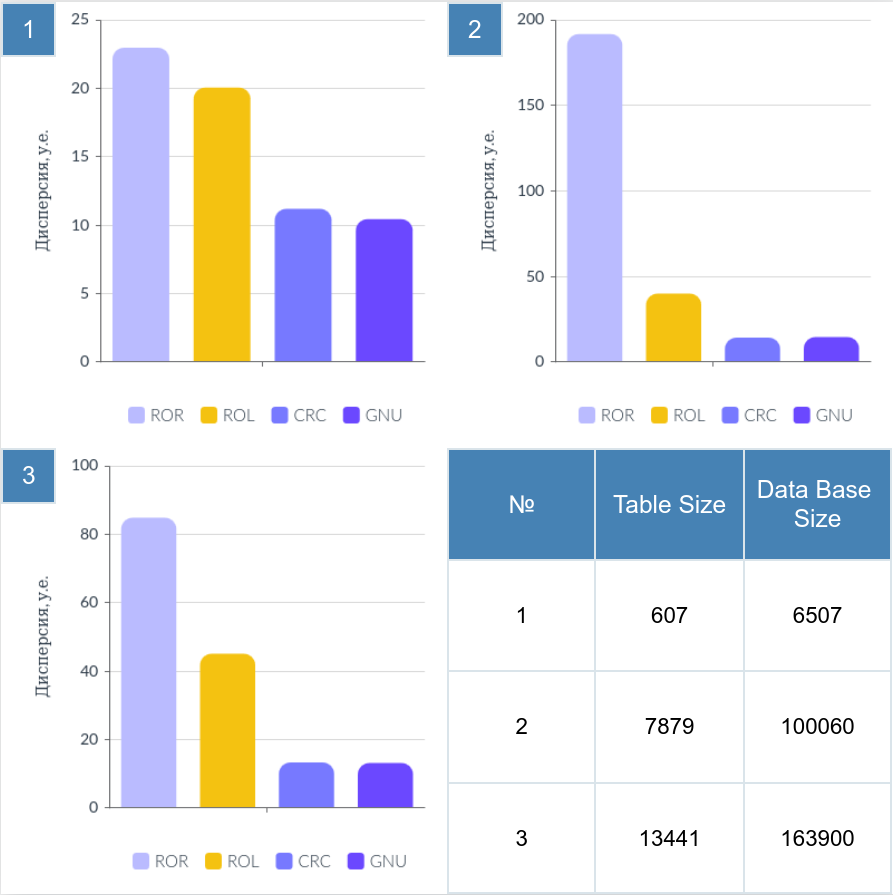
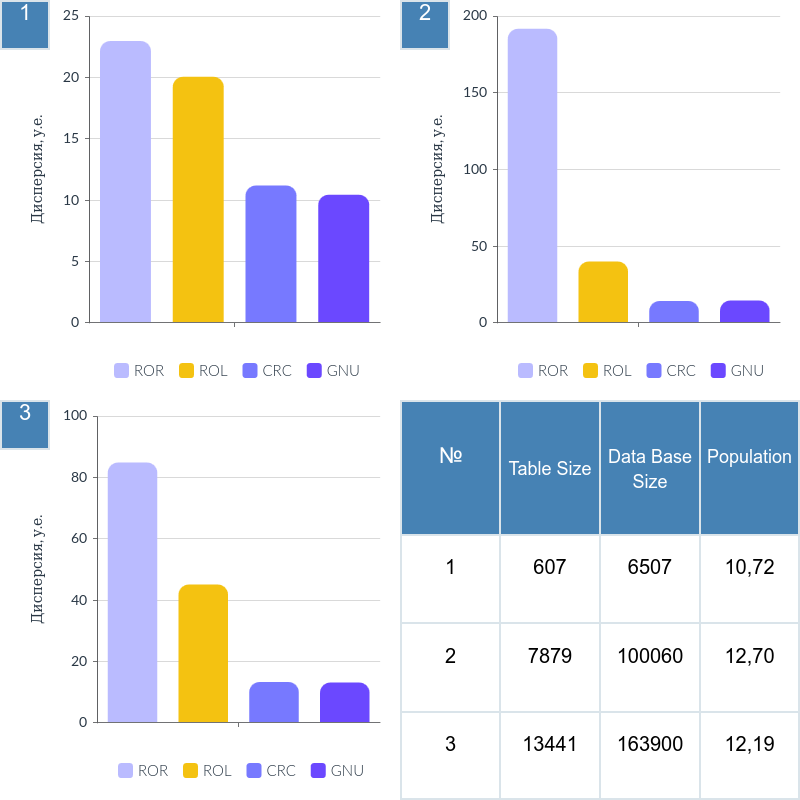
Update README.md

diff --git a/README.md b/README.md
@@ -2,25 +2,25 @@
 ### Направление: "Введение в эмуляцию вычислительных систем, компиляторные технологии и промышленное программирование"
 **Выполнил Буторин Даниил**
 ## Цель
-Изучить различные реализации хеш-функций, изучить их дисперсию; исследовать реализацию инфроструктуры хеш-таблтцы на предмет возможных оптимизаций, внедрение найденных решений, вычисление коэффициента полезного прироста производительности.
+Изучить различные реализации хеш-функций, изучить их дисперсию; исследовать реализацию инфроструктуры хеш-таблтцы на предмет возможных оптимизаций, внедрение найденных решений, вычисление коэффициента полезного прироста производительности ассемблерной оптимизации.
 ## В работе используются
-Язык программирования C\C++; набор компиляторов GCC; инструмент callgring утилиты valgring; инструмент визуализации KCachegring.
+Язык программирования C\C++; набор компиляторов GCC; инструмент callgrind утилиты valgrind; инструмент визуализации KCachegring.
 ## Экспериментальная установка
 Ноутбук фирмы "Honor" на процессоре "AMD Ryzen 5 5500U with Radeon Graphics" с OS "GNU/Linux 22.04.1-Ubuntu x86_64".
 ## Теоретическая справка:
-Хеш-функция — функция, осуществляющая преобразование массива входных данных произвольной длины в выходную битовую строку определенной длины. Возвращаемые хеш-функцией значения менее разнообразны, чем входные значения. Случай, при котором хеш-функция преобразует более чем одно значение входных данных в одинаковые ключи, называется "коллизией". Вероятность возникновения коллизий используется для оценки качества хеш-функций.
+Хеш-функция — функция, осуществляющая преобразование массива входных данных произвольной длины в выходную битовую строку определенной длины(также называемую ключем). Возвращаемые хеш-функцией значения менее разнообразны, чем входные значения. Случай, при котором хеш-функция преобразует более чем одно значение входных данных в одинаковые ключи, называется "коллизией". Вероятность возникновения коллизий используется для оценки качества хеш-функций.
 
 Ассоциативный массив — абстрактный тип данных, позволяющий хранить пары вида (ключ, значение). Реализация ассоциативного массива может быть представлена хеш-таблицей с разрешением коллизий путем цепочек(каждая ячейка - односвязанный список).
 
-Заскленность хеш-таблицы - среднее количество элементов, приходящихся на каждую ячейку таблицы.
+Заселенность хеш-таблицы - среднее количество элементов, приходящихся на каждую ячейку таблицы.
 ## Ход работы
 ### _Глава первая. Исследование дисперсии хеш-функций._
 > Так как вычисляемая дисперсия распределения хеш-функций зависит от размеров хеш-таблицы,
-> то выберем ее размеры оптимальным путем для текущей задачи: заселенность таблицы будет 10-15 элементамов.
+> то выберем ее размеры оптимальным путем для текущей задачи: заселенность таблицы будет 10-15 элементов.
 
 > Хеш-таблица будет представлена интерфейсом ассоциативного массива с типом (`String`, `String`).
 
-Далее будет приведены разные реализации хеш-функции с их описанием и дисперсией в случае хорошего распределения.
+Далее будет приведены разные реализации хеш-функции с их описанием и дисперсией в случае близкого к равномерному распределения(тогда дисперсия будет наименьшей).
 Все реализации имеют следующую сигнатуру.
 ```clike=
 typedef uint32_t Hash;
@@ -206,22 +206,20 @@ Hash GetHash(const char *value)
 
 #### Итоги главы
 
-Населенность
-607/6507=~10,72
-7879/100060=~12,70
-13441/163900=~12,19
-
-Так как кроме последних четырех реализаций, дисперсии представленных реализаций плохая, то они не будут отраженны в гистограммах.
+Так как только у последних четырех реализаций хорошие(малые) дисперсии, то только они и будут отраженны в гистограммах.
 
 ![alt text](https://github.com/TNVC/HashTable/blob/master/plots/HashDispertion.png?raw=true)
 
 
 ### _Глава вторая. Оптимизация работы хеш-таблицы._
 
+В данной главе мы будем соривноваться с опцией O3. Мы посмотрим, как она оптимизирует код, и попробуем оптимизировать код лучше.
+
 Для тестированния модели была выбрана GNU реализация хеш-функции из-за наилучшего покозателя дисперсии.
 Программы будут собираться с помощью компилятора g++ с опцией O0.
 
 Размер модели базы данных - 163.900 уникальных пар (строка:строка).
+
 Размер модели хеш-таблицы - 13.441 ячеек.
 
 Тестирование будет проходить следующим образом:
@@ -234,15 +232,17 @@ Hash GetHash(const char *value)
 
 <details>
 <summary> O0 </summary>
-![alt text](https://github.com/TNVC/HashTable/blob/master/callgrind/%231_start/0.png?raw=true)
+
+![alt text](https://github.com/TNVC/HashTable/blob/master/callgrind/%230_start/0.png?raw=true)
 
 </details>
 
- Также представем результаты для опции O3, для будущего мравнения.
+ Также представем результаты для опции O3, для будущего сравнения.
 
 <details>
 <summary> O3 </summary>
-![alt text](https://github.com/TNVC/HashTable/blob/master/callgrind/%231_start/3.png?raw=true)
+
+![alt text](https://github.com/TNVC/HashTable/blob/master/callgrind/%230_start/3.png?raw=true)
 
 </details>
 
@@ -257,24 +257,32 @@ Hash GetHash(const char *value)
 
 <details>
 <summary> Asm </summary>
-![alt text](https://github.com/TNVC/HashTable/blob/master/callgrind/%231_asm/asm.png?raw=true)
+
+![alt text](https://github.com/TNVC/HashTable/blob/master/callgrind/%231_asmHash/asm.png?raw=true)
 
 </details>
 
 <details>
 <summary> Inline asm with O0 </summary>
-![alt text](https://github.com/TNVC/HashTable/blob/master/callgrind/%231_asm/inlineO0.png?raw=true)
+
+![alt text](https://github.com/TNVC/HashTable/blob/master/callgrind/%231_asmHash/inlineO0.png?raw=true)
 
 </details>
 
 <details>
 <summary> Inline asm with O1 </summary>
-![alt text](https://github.com/TNVC/HashTable/blob/master/callgrind/%231_asm/inlineO1.png?raw=true)
+
+![alt text](https://github.com/TNVC/HashTable/blob/master/callgrind/%231_asmHash/inlineO1.png?raw=true)
 
 </details>
 
 Отметим улучшения:
+
 (Здесь и далее будет сравниваться версии с опцией O0)
+
+(Абсолютный прирост - прирост производительности относительно начальной замерки)
+
+(Относительный прирост - прирост производительности относительно предыдущей замерки)
 
 - Абсолютный прирост(для Asm): 1,19
 - Абсолютный прирост(для Inline asm with O0): 1,28
@@ -286,18 +294,21 @@ Hash GetHash(const char *value)
 - (для Inline asm with O1): 99,2
 
 Код ассемблерной вставки и ассемблерной реализации индентичен.
-На удивление, версия с ассемблерной вставкой лучше, чем с ассемблерной реализацией. В случае с опцией O1 компилятор единственное отличие ассемблерной вставки и ассемблерной реализациии - наличие инструкции `endbr64`, и как мы видим общее количество инструкций в данных версий функции `GetHash` сократилось на 8M инструкций, а также общее количество инструкций было меньше на 50M инструкций. Но самое интересное, что версия ассемблерной вставки с опцией O0, где кроме `endbr64` был и стековый кадр, но и при этом `GetHash` содержало на 2M, а общее количество уменьшилось на 44M.
+На удивление, версия с ассемблерной вставкой лучше, чем с ассемблерной реализацией. В случае с опцией O1 единственное отличие ассемблерной вставки и ассемблерной реализациии - наличие инструкции `endbr64`, и как мы видим общее количество инструкций в данных версий функции `GetHash` сократилось на 8M, а также общее количество инструкций было меньше на 50M. Но самое интересное, что версия ассемблерной вставки с опцией O0, где кроме `endbr64` был и стековый кадр, но и при этом `GetHash` содержало на 2M меньше, а общее количество уменьшилось на 44M инструкций.
 
-Дальше была принята версии Inline asm with O1.
+Дальше будет использоваться версия Inline asm with O1.
 
-Теперь можно проанализировать полученные результаты. Первое место занимает функция `Get`. Так как в самой функции нет явных проблемных мест, то для оптимизации можно уменьшить нагрузку на функцию путем увелечения размера до 112.111 ячеек.
+Теперь можно проанализировать полученные результаты. Первое место занимает функция `Get`. Так как в самой функции нет явных проблемных мест, то для оптимизации можно уменьшить нагрузку на функцию путем увелечения размера таблицы до 112.111 ячеек.
 
 #### Оптимизация №2: Увеличение размеров таблицы.
 
 В данной оптимизации размер таблицы будет увеличен с 13.441 до 112.111.
 
 <details>
-![alt text](https://github.com/TNVC/HashTable/blob/master/callgrind/%231_newSize/0.png?raw=true)
+<summary> Результаты замеров </summary>
+
+![alt text](https://github.com/TNVC/HashTable/blob/master/callgrind/%232_newSize/0.png?raw=true)
+
 </details>
 
 Отметим улучшения:
@@ -313,7 +324,10 @@ Hash GetHash(const char *value)
 #### Оптимизация №3: Подменна типов ключа и значения, нормирование базы данных.
 
 <details>
+<summary> Результаты замеров </summary>
+
 ![alt text](https://github.com/TNVC/HashTable/blob/master/callgrind/%233_newType/0.png?raw=true)
+
 </details>
 
 Отметим улучшения:
@@ -323,14 +337,19 @@ Hash GetHash(const char *value)
 
 Тут можно подметить, что относительный прирост мал, но еще значим.
 
-Так как теперь размер ключа - фиксированное значение, то можно попробовать заменить на их опаратно поддерживаемые. Среди таких есть ранее нам знакомый CRC32. Хоть у него и более худшая дисперсия, но тут вместо цикла по всем 32 элементам строки, ножно использовать четыре инструкции обрабатывающие по 8 символов за один раз.
+Так как теперь размер ключа - фиксированное значение, то можно попробовать заменить на их апаратно поддерживаемые. Среди таких есть ранее нам знакомый CRC32. Хоть у него и более худшая дисперсия, но тут вместо цикла по всем 32 элементам строки, ножно использовать четыре инструкции обрабатывающие по 8 символов за один раз.
 
-Хоть раньше и было зафиксированно, что ассемблерная вставка дает лучший прирост производительности при O0, чем ассемблерная реализация, но для экспиремента было принято решение использовать именно ассемблерную реализацию. Для справки также в саммом конце была реализована и ассемблерная вставка и было замечено, что при O0 количество инструкций в `GetHash` было увеличено на 1M, но общее количество уменьшилось на 32M. При этом при опции O3 общее количество инструкций увеличилось на 2M. Так что данное решение было правильным.
+Хоть раньше и было зафиксированно, что ассемблерная вставка дает лучший прирост производительности при O0, чем ассемблерная реализация, но для экспиремента было принято решение использовать именно ассемблерную реализацию.
+
+Для справки, также в самом конце была реализована и ассемблерная вставка и было замечено, что при O0 количество инструкций в `GetHash` было увеличено на 1M, но общее количество уменьшилось на 32M. При этом при опции O3 общее количество инструкций увеличилось на 2M. Так что данное решение было правильным.
 
 #### Оптимизация №4: Повторная замена реализации хеш-функции.
 
 <details>
+<summary> Результаты замеров </summary>
+
 ![alt text](https://github.com/TNVC/HashTable/blob/master/callgrind/%234_newAsm/0.png?raw=true)
+
 </details>
 
 Отметим улучшения:
@@ -362,7 +381,10 @@ Hash GetHash(const char *value)
 Прежде оптимизации инфраструктуры посмотрим на новую версию реализации хеш-функции.
 
 <details>
+<summary> Результаты замеров </summary>
+
 ![alt text](https://github.com/TNVC/HashTable/blob/master/callgrind/%235_newMalloc/0.png?raw=true)
+
 </details>
 
 Отметим улучшения:
@@ -374,7 +396,9 @@ Hash GetHash(const char *value)
 
 <details>
 <summary> O3 </summary>
+
 ![alt text](https://github.com/TNVC/HashTable/blob/master/callgrind/%235_newMalloc/3.png?raw=true)
+
 </details>
 
 В данном случае тоже не видно, что можно оптимизировать.
